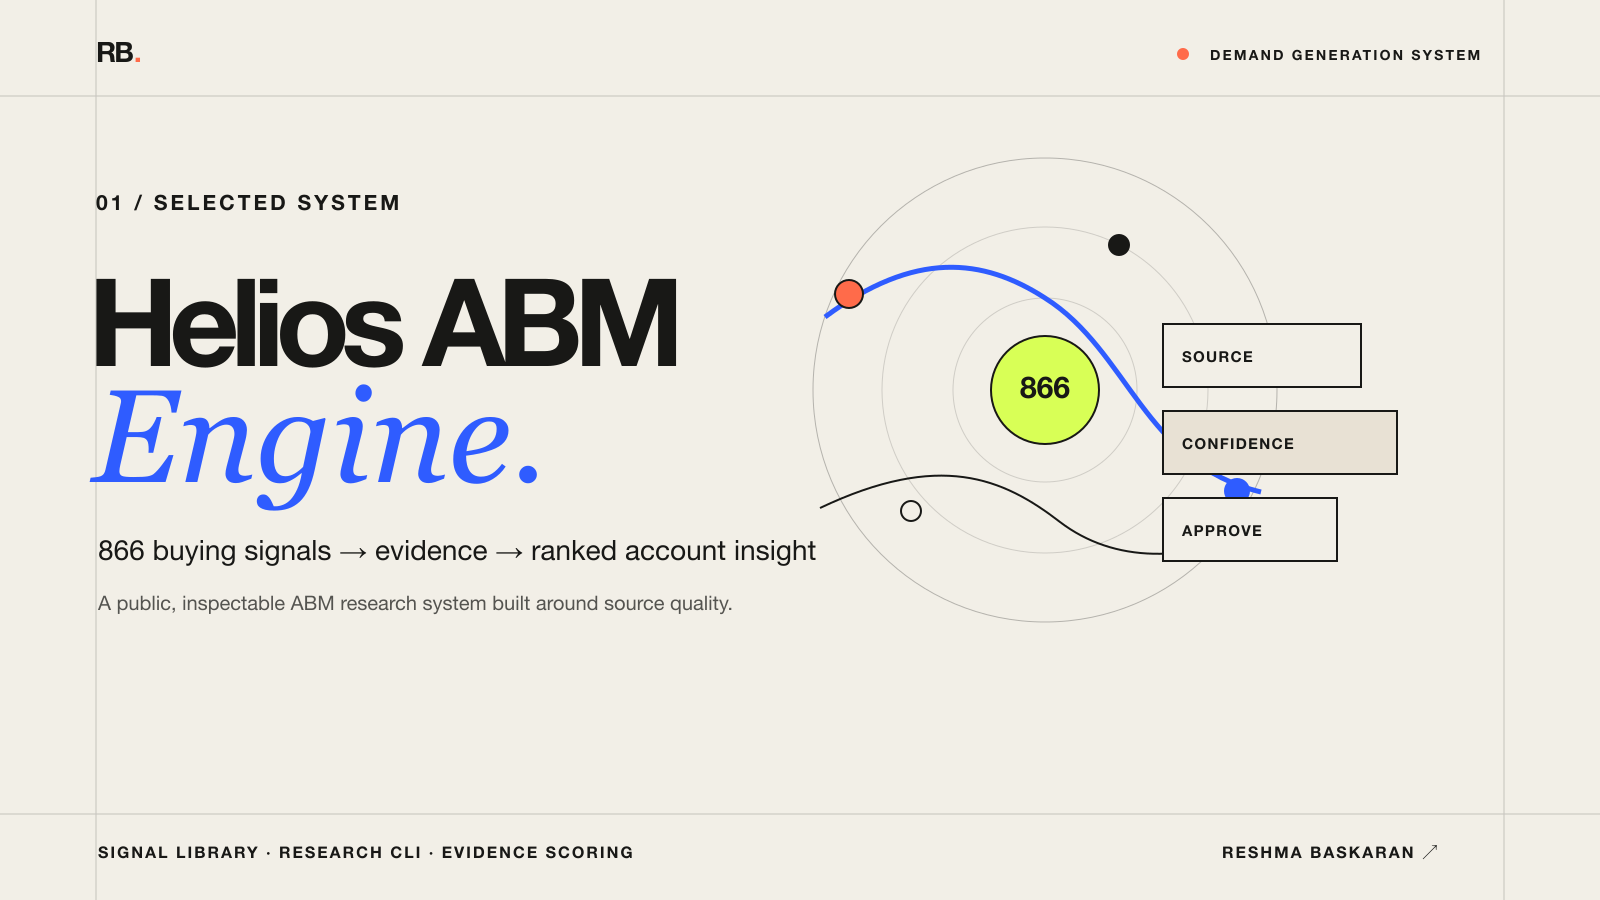
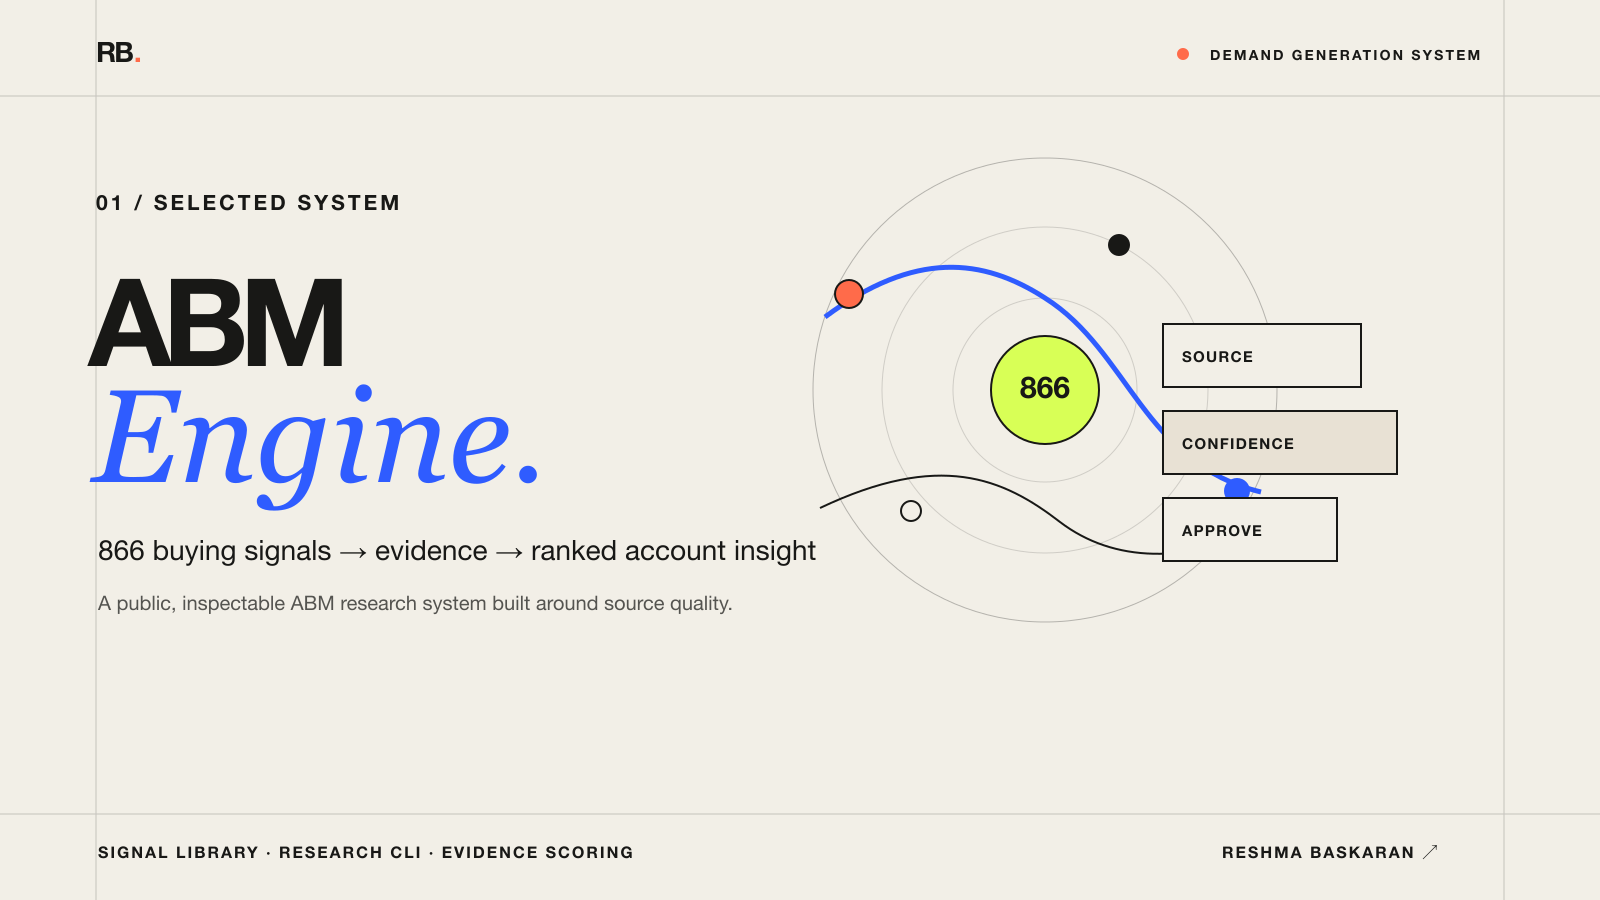
Rename public project to ABM Engine

Changed region(s): [[0.0625, 0.3111, 0.4375, 0.4044]]

diff --git a/src/abm_engine/cli.py b/src/abm_engine/cli.py
@@ -11,7 +11,7 @@ DEFAULT_LIBRARY = Path(__file__).resolve().parents[2] / "data" / "signal-library
 
 
 def build_parser() -> argparse.ArgumentParser:
-    parser = argparse.ArgumentParser(prog="helios", description="Inspect and render the Helios signal library.")
+    parser = argparse.ArgumentParser(prog="abm-engine", description="Inspect and render the ABM Engine signal library.")
     parser.add_argument("--library", type=Path, default=DEFAULT_LIBRARY)
     commands = parser.add_subparsers(dest="command", required=True)
 
@@ -65,4 +65,3 @@ def main(argv: list[str] | None = None) -> int:
 
 if __name__ == "__main__":
     raise SystemExit(main())
-

diff --git a/tests/test_library.py b/tests/test_library.py
@@ -1,7 +1,7 @@
 from pathlib import Path
 import unittest
 
-from helios.library import SignalLibrary
+from abm_engine.library import SignalLibrary
 
 
 ROOT = Path(__file__).resolve().parents[1]

diff --git a/tests/test_scoring.py b/tests/test_scoring.py
@@ -1,6 +1,6 @@
 import unittest
 
-from helios.scoring import Evidence, score_evidence
+from abm_engine.scoring import Evidence, score_evidence
 
 
 class ScoringTests(unittest.TestCase):

diff --git a/src/abm_engine/__init__.py b/src/abm_engine/__init__.py
@@ -1,6 +1,5 @@
-"""Helios ABM Engine."""
+"""ABM Engine."""
 
 from .library import Signal, SignalLibrary
 
 __all__ = ["Signal", "SignalLibrary"]
-

diff --git a/data/signal-library.md b/data/signal-library.md
@@ -1,6 +1,6 @@
-# Helios Outreach — Deterministic Signal Library
+# ABM Engine Outreach — Deterministic Signal Library
 
-**Use case:** ABM signal scoring for Helios professional services (voice agents, conversational AI, contact-center automation, agentic workflows, AI-led CX automation).
+**Use case:** ABM signal scoring for ABM Engine professional services (voice agents, conversational AI, contact-center automation, agentic workflows, AI-led CX automation).
 
 **Scope:** All signals consolidated from sub-industry research and reclassified as **deterministic** for the outreach tool. Organized by industry → sub-industry → category.
 
@@ -21,9 +21,9 @@
 
 ### Hiring
 
-- **`hiring_conversational_voice_ai_role`** — Open role for Conversational/Voice AI engineer or designer. Weight 1.95 / Conf 4. Query: `("{{company_name}}" jobs OR careers) ("conversational AI" OR "voice AI" OR "voice agent" OR "dialog systems" OR "NLU engineer") (site:linkedin.com/jobs OR site:greenhouse.io OR site:lever.co OR site:myworkdayjobs.com)`. *Rationale:* Hiring conv/voice AI talent = explicitly building same capability Helios sells.
+- **`hiring_conversational_voice_ai_role`** — Open role for Conversational/Voice AI engineer or designer. Weight 1.95 / Conf 4. Query: `("{{company_name}}" jobs OR careers) ("conversational AI" OR "voice AI" OR "voice agent" OR "dialog systems" OR "NLU engineer") (site:linkedin.com/jobs OR site:greenhouse.io OR site:lever.co OR site:myworkdayjobs.com)`. *Rationale:* Hiring conv/voice AI talent = explicitly building same capability ABM Engine sells.
 - **`hiring_contact_center_modernization`** — Open roles for contact center / BDC / CX transformation leadership. Weight 1.55 / Conf 3. Query: `"{{company_name}}" ("contact center" OR "call center" OR "customer care" OR "BDC manager" OR "customer experience transformation" OR "digital servicing") (manager OR director OR VP OR "head of") (site:linkedin.com/jobs OR site:indeed.com OR site:greenhouse.io)`. *Rationale:* New CX/contact-center leadership = budget re-baselining, voice/CCaaS-AI evaluation window.
-- **`hiring_ml_data_science_volume`** — Volume of open ML / Data Science / MLOps requisitions. Weight 1.20 / Conf 3. Query: `"{{company_name}}" ("machine learning engineer" OR "data scientist" OR "MLOps" OR "ML platform" OR "AI engineer" OR "applied scientist") (site:linkedin.com/jobs OR site:greenhouse.io)`. *Rationale:* Standing ML/DS bench means org can co-build with Helios services.
+- **`hiring_ml_data_science_volume`** — Volume of open ML / Data Science / MLOps requisitions. Weight 1.20 / Conf 3. Query: `"{{company_name}}" ("machine learning engineer" OR "data scientist" OR "MLOps" OR "ML platform" OR "AI engineer" OR "applied scientist") (site:linkedin.com/jobs OR site:greenhouse.io)`. *Rationale:* Standing ML/DS bench means org can co-build with ABM Engine services.
 - **`hiring_ecommerce_personalization_search`** — E-commerce / catalog search / personalization roles open. Weight 1.15 / Conf 3. Query: `"{{company_name}}" ("search relevance" OR "personalization" OR "product discovery" OR "catalog" OR "fitment" OR "recommendations engine") (engineer OR scientist OR manager)`. *Rationale:* Parts retail's #1 problem is fitment; AI search hiring = data layer for agentic workflows.
 - **`hiring_cdp_data_platform_roles`** — CDP, data platform, or "AI-ready data" engineering roles. Weight 1.10 / Conf 3. Query: `"{{company_name}}" ("customer data platform" OR "CDP" OR "Snowflake" OR "Databricks" OR "data platform" OR "data governance" OR "Alation" OR "Collibra") (engineer OR architect OR manager)`. *Rationale:* Governed data layer is precondition for safe agentic deployment.
 
@@ -51,7 +51,7 @@
 
 ### CX Pain
 
-- **`cx_pain_complaints_call_wait_times`** — Public complaints about call wait, customer service, or commercial desk service. Weight 1.45 / Conf 3. Query: `"{{company_name}}" ("on hold" OR "wait time" OR "no one answered" OR "horrible customer service" OR "commercial desk" OR "wrong part" OR "could not reach") (site:reddit.com OR site:trustpilot.com OR site:bbb.org OR site:consumeraffairs.com OR site:pissedconsumer.com)`. *Rationale:* This is the literal problem statement Helios solves.
+- **`cx_pain_complaints_call_wait_times`** — Public complaints about call wait, customer service, or commercial desk service. Weight 1.45 / Conf 3. Query: `"{{company_name}}" ("on hold" OR "wait time" OR "no one answered" OR "horrible customer service" OR "commercial desk" OR "wrong part" OR "could not reach") (site:reddit.com OR site:trustpilot.com OR site:bbb.org OR site:consumeraffairs.com OR site:pissedconsumer.com)`. *Rationale:* This is the literal problem statement ABM Engine solves.
 - **`cx_pain_mobile_app_reviews`** — App Store / Play Store recent low ratings on support functionality. Weight 0.90 / Conf 3.
 - **`cx_pain_reddit_subreddit_complaints`** — Volume of negative threads in retailer-specific subreddit. Weight 0.75 / Conf 2.
 - **`cx_pain_glassdoor_call_center_understaffing`** — Glassdoor reviews citing understaffed BDC/commercial/customer-care. Weight 0.85 / Conf 2. *Rationale:* Frontline staff publicly saying they can't keep up = finance is actively looking for headcount-avoidance ROI.
@@ -336,16 +336,16 @@
 
 ### Hiring
 
-- **`hiring_conversational_voice_ai_roles`** — Hiring VP of Customer Experience, Chief Customer Officer, or Head of CX. Weight 2.00 / Conf 3. Query: `site:linkedin.com/jobs OR site:greenhouse.io OR site:lever.co "{{company_name}}" ("VP Customer Experience" OR "Vice President Customer Experience" OR "Chief Customer Officer" OR "VP CX" OR "Head of Customer Experience" OR "Director of Customer Experience" OR "CCO")`. *Rationale:* The buyer persona being hired — fresh hire signals new budget and openness to CX tooling. Helios's champion is a VP/Director of CX.
-- **`hiring_ai_ml_leadership`** — Evidence of a large customer service or contact center operation (LinkedIn profiles, Glassdoor mentions, company careers page). Weight 1.80 / Conf 3. Query: `site:linkedin.com "{{company_name}}" ("customer service" OR "contact center" OR "call center" OR "customer care") OR site:glassdoor.com "{{company_name}}" ("customer service" OR "call center" OR "contact center")`. *Rationale:* Large manual CX headcount = high automation ROI. Evidence of an active CS/contact-center workforce — LinkedIn profiles in those roles or Glassdoor reviews mentioning the team — confirms the operational footprint Helios targets.
-- **`hiring_cx_automation_specialist`** — Hiring Head or Director of Contact Center Operations or Customer Service Operations. Weight 1.60 / Conf 3. Query: `site:linkedin.com/jobs OR site:greenhouse.io OR site:lever.co "{{company_name}}" ("Head of Contact Center" OR "Director of Contact Center" OR "VP Contact Center" OR "Director of Customer Service Operations" OR "VP Customer Service" OR "Director of Customer Care")`. *Rationale:* Contact center leadership hire signals CX infrastructure budget and a dedicated owner who evaluates tools like Helios.
+- **`hiring_conversational_voice_ai_roles`** — Hiring VP of Customer Experience, Chief Customer Officer, or Head of CX. Weight 2.00 / Conf 3. Query: `site:linkedin.com/jobs OR site:greenhouse.io OR site:lever.co "{{company_name}}" ("VP Customer Experience" OR "Vice President Customer Experience" OR "Chief Customer Officer" OR "VP CX" OR "Head of Customer Experience" OR "Director of Customer Experience" OR "CCO")`. *Rationale:* The buyer persona being hired — fresh hire signals new budget and openness to CX tooling. ABM Engine's champion is a VP/Director of CX.
+- **`hiring_ai_ml_leadership`** — Evidence of a large customer service or contact center operation (LinkedIn profiles, Glassdoor mentions, company careers page). Weight 1.80 / Conf 3. Query: `site:linkedin.com "{{company_name}}" ("customer service" OR "contact center" OR "call center" OR "customer care") OR site:glassdoor.com "{{company_name}}" ("customer service" OR "call center" OR "contact center")`. *Rationale:* Large manual CX headcount = high automation ROI. Evidence of an active CS/contact-center workforce — LinkedIn profiles in those roles or Glassdoor reviews mentioning the team — confirms the operational footprint ABM Engine targets.
+- **`hiring_cx_automation_specialist`** — Hiring Head or Director of Contact Center Operations or Customer Service Operations. Weight 1.60 / Conf 3. Query: `site:linkedin.com/jobs OR site:greenhouse.io OR site:lever.co "{{company_name}}" ("Head of Contact Center" OR "Director of Contact Center" OR "VP Contact Center" OR "Director of Customer Service Operations" OR "VP Customer Service" OR "Director of Customer Care")`. *Rationale:* Contact center leadership hire signals CX infrastructure budget and a dedicated owner who evaluates tools like ABM Engine.
 - **`hiring_seasonal_contact_center_surge`** — Seasonal/peak-season CX hiring surge (>50 open CX reqs). Weight 1.20 / Conf 3.
 - **`hiring_recsys_personalization_engineers`** — Recommendation systems, visual search, product discovery ML. Weight 1.20 / Conf 3.
 - **`hiring_supply_chain_forecasting_analytics`** — Demand forecasting, inventory analytics, supply chain ML. Weight 1.10 / Conf 3.
 - **`hiring_rpa_automation_developer`** — RPA developer / automation engineer / process automation roles. Weight 1.00 / Conf 3.
-- **`hiring_mlops_data_platform`** — Head of CX Technology, Customer Experience Technology Manager, or Digital Service leader exists at the company (LinkedIn profile). Weight 1.50 / Conf 3. Query: `site:linkedin.com "{{company_name}}" ("CX technology" OR "customer experience technology" OR "contact center technology" OR "digital customer service" OR "customer service technology" OR "VP Customer Experience Technology" OR "Director of CX Technology")`. *Rationale:* A dedicated CX technology owner signals active budget for contact center tooling and willingness to evaluate Helios.
+- **`hiring_mlops_data_platform`** — Head of CX Technology, Customer Experience Technology Manager, or Digital Service leader exists at the company (LinkedIn profile). Weight 1.50 / Conf 3. Query: `site:linkedin.com "{{company_name}}" ("CX technology" OR "customer experience technology" OR "contact center technology" OR "digital customer service" OR "customer service technology" OR "VP Customer Experience Technology" OR "Director of CX Technology")`. *Rationale:* A dedicated CX technology owner signals active budget for contact center tooling and willingness to evaluate ABM Engine.
 - **`hiring_ar_3d_computer_vision_specialist`** — AR/VR engineering, 3D modeling, CV for products. Weight 0.90 / Conf 3.
-- **`hiring_head_of_ecommerce_digital`** — VP or Head of E-commerce / Chief Digital Officer exists at the company (LinkedIn profile or press coverage). Weight 1.30 / Conf 3. Query: `site:linkedin.com "{{company_name}}" ("VP E-Commerce" OR "VP Ecommerce" OR "Head of E-Commerce" OR "Chief Digital Officer" OR "VP Digital" OR "Head of Digital" OR "Director of E-Commerce" OR "Director of Digital Experience")`. *Rationale:* An identifiable digital/e-commerce leader means there is a dedicated owner of the digital customer surface where Helios's AI mediation layer operates — a VP E-commerce or CDO is a secondary champion or at minimum a stakeholder in CX tooling decisions.
+- **`hiring_head_of_ecommerce_digital`** — VP or Head of E-commerce / Chief Digital Officer exists at the company (LinkedIn profile or press coverage). Weight 1.30 / Conf 3. Query: `site:linkedin.com "{{company_name}}" ("VP E-Commerce" OR "VP Ecommerce" OR "Head of E-Commerce" OR "Chief Digital Officer" OR "VP Digital" OR "Head of Digital" OR "Director of E-Commerce" OR "Director of Digital Experience")`. *Rationale:* An identifiable digital/e-commerce leader means there is a dedicated owner of the digital customer surface where ABM Engine's AI mediation layer operates — a VP E-commerce or CDO is a secondary champion or at minimum a stakeholder in CX tooling decisions.
 
 ### Funding & Financial
 
@@ -359,7 +359,7 @@
 
 ### Tech Stack
 
-- **`techstack_modern_cloud_contact_center`** — Cloud CCaaS (Five9, NICE CXone, Talkdesk, Genesys Cloud, Amazon Connect, Twilio Flex). Weight 1.50 / Conf 4. *Rationale:* Single best deterministic signal for Helios voice CX agent fit.
+- **`techstack_modern_cloud_contact_center`** — Cloud CCaaS (Five9, NICE CXone, Talkdesk, Genesys Cloud, Amazon Connect, Twilio Flex). Weight 1.50 / Conf 4. *Rationale:* Single best deterministic signal for ABM Engine voice CX agent fit.
 - **`techstack_chatbot_platform_in_use`** — Ada, Intercom Fin, Forethought, Kustomer, Cresta, ASAPP, LivePerson, Drift, Gorgias AI. Weight 1.20 / Conf 4.
 - **`techstack_zendesk_salesforce_service_cloud`** — Customer service platform: Zendesk, Salesforce Service Cloud, Kustomer, Freshdesk, Help Scout. Weight 1.00 / Conf 4.
 - **`techstack_shopify_plus`** — Uses Shopify Plus. Weight 1.10 / Conf 5.
@@ -402,7 +402,7 @@
 - **`industry_visual_search_image_shopping`** — Visual search / image-based shopping feature. Weight 0.80 / Conf 3.
 - **`industry_furniture_configurator_modular`** — Product configurator for modular/customizable furniture. Weight 0.80 / Conf 3.
 - **`industry_designer_trade_program`** — Designer/trade B2B program. Weight 0.70 / Conf 4.
-- **`industry_white_glove_scheduling_complexity`** — White-glove delivery / assembly / inside-room delivery. Weight 1.20 / Conf 4. *Rationale:* Canonical Helios voice agent use case for furniture.
+- **`industry_white_glove_scheduling_complexity`** — White-glove delivery / assembly / inside-room delivery. Weight 1.20 / Conf 4. *Rationale:* Canonical ABM Engine voice agent use case for furniture.
 - **`industry_returns_policy_complexity`** — Returns/exchange policy mentions sizing/fit/space issues. Weight 0.90 / Conf 3.
 - **`industry_showroom_to_online_transition`** — Public commentary on shifting from showroom-led to digital-led. Weight 0.80 / Conf 3.
 
@@ -832,7 +832,7 @@
 - **`open_ai_ml_engineer_roles`** — Open ML/AI engineering roles. Strength: High. Query: `site:linkedin.com/jobs "{{company_name}}" ("machine learning engineer" OR "ML engineer" OR "AI engineer")`.
 - **`open_data_scientist_roles`** — Open data scientist roles. Strength: High. Query: `site:linkedin.com/jobs "{{company_name}}" "data scientist"`.
 - **`open_mlops_platform_roles`** — MLOps / ML platform / ML infrastructure roles. Strength: High.
-- **`open_conversational_voice_ai_roles`** — Conversational AI / Voice AI / NLP engineer / speech roles. Strength: Very High. Direct match to Helios ICP.
+- **`open_conversational_voice_ai_roles`** — Conversational AI / Voice AI / NLP engineer / speech roles. Strength: Very High. Direct match to ABM Engine ICP.
 - **`open_llm_prompt_engineer_roles`** — LLM / Prompt engineer / generative AI roles. Strength: Very High.
 - **`open_data_engineering_roles`** — Data engineer / analytics engineer roles. Strength: Medium.
 - **`open_responsible_ai_roles`** — Responsible AI / AI governance / model risk roles. Strength: High.
@@ -1044,8 +1044,8 @@
 
 - **`S-STRAT-01`** — Public AI Strategy / Generative AI Mention in CEO Letter. Conf 0.8 / Weight 9.
 - **`S-STRAT-02`** — Digital Transformation Roadmap in public filings. Conf 0.65 / Weight 7.
-- **`S-STRAT-03`** — Servicing / Collections Modernization Mandate. Conf 0.75 / Weight 10. *Rationale:* Highest Helios fit.
-- **`S-STRAT-04`** — Underwriting AI as Core Strategy. Conf 0.95 / Weight 4. *Rationale:* Already built — signals maturity but NOT Helios's wedge.
+- **`S-STRAT-03`** — Servicing / Collections Modernization Mandate. Conf 0.75 / Weight 10. *Rationale:* Highest ABM Engine fit.
+- **`S-STRAT-04`** — Underwriting AI as Core Strategy. Conf 0.95 / Weight 4. *Rationale:* Already built — signals maturity but NOT ABM Engine's wedge.
 - **`S-STRAT-05`** — Member Experience / Conversational AI Product Strategy. Conf 0.85 / Weight 10.
 
 ### Product / Operational
@@ -1141,7 +1141,7 @@
 
 - **`hiring.ai_ml_role_count`** — Open AI/ML/data-science/AI engineer roles. Weight 5. Query: `site:carrier.com/careers ("machine learning" OR "ML engineer" OR "data scientist" OR "AI engineer")`. Threshold: ≥5 = strong, ≥15 = very strong.
 - **`hiring.gen_ai_specialist_role`** — Generative AI / LLM / prompt engineer / MLOps / agentic AI roles. Weight 5. *Rationale:* Differentiates production gen-AI from classical ML.
-- **`hiring.conversational_ai_role`** — Conversational AI / voice AI / chatbot / NLP engineer / dialog designer roles. Weight 5. *Rationale:* Direct fit for Helios voice AI / CX automation.
+- **`hiring.conversational_ai_role`** — Conversational AI / voice AI / chatbot / NLP engineer / dialog designer roles. Weight 5. *Rationale:* Direct fit for ABM Engine voice AI / CX automation.
 - **`hiring.chief_ai_officer_or_equivalent`** — Chief AI Officer / Chief Data & Analytics Officer / Head of AI. Weight 5. *Rationale:* CAIO hire is a 12-month leading buy signal.
 - **`hiring.contact_center_modernization_role`** — Contact center / CX transformation director/VP/head of insurance. Weight 4.
 - **`hiring.platform_engineer_ccaas`** — Genesys / NICE CXone / Five9 / Talkdesk / Amazon Connect engineer. Weight 4.

diff --git a/README.md b/README.md
@@ -1,14 +1,14 @@
-# Helios ABM Engine: Your Replacement for Clay
+# ABM Engine: Your Replacement for Clay
 
-![Helios ABM Engine cover](assets/cover.svg)
+![ABM Engine cover](assets/cover.svg)
 
-Helios is an evidence-first account research and messaging engine. It turns a campaign brief into scoped research questions, source-backed buying signals, a reviewable account score, and grounded message inputs.
+ABM Engine is an evidence-first account research and messaging engine. It turns a campaign brief into scoped research questions, source-backed buying signals, a reviewable account score, and grounded message inputs.
 
 ## The problem
 
 Most enrichment workflows produce rows of data. ABM teams still have to decide which facts matter, whether a source supports the claim, what the timing signal means, and how it should change the message.
 
-Helios encodes that judgment in an inspectable workflow:
+ABM Engine encodes that judgment in an inspectable workflow:
 
 1. Select relevant signals for the account and campaign.
 2. Render targeted research queries.
@@ -34,9 +34,9 @@ python -m venv .venv
 source .venv/bin/activate
 python -m pip install -e .
 
-helios stats
-helios search "AI initiative" --limit 5
-helios render ai_initiative_press_release --company-name "Lowe's" --company-domain lowes.com --ticker LOW
+abm-engine stats
+abm-engine search "AI initiative" --limit 5
+abm-engine render ai_initiative_press_release --company-name "Lowe's" --company-domain lowes.com --ticker LOW
 ```
 
 Run the tests:
@@ -47,7 +47,7 @@ python -m unittest discover -s tests -v
 
 ## How this differs from Clay
 
-Clay is a general enrichment and workflow canvas. Helios is an opinionated ABM research system: the signal taxonomy, evidence record, confidence treatment, human approval boundary, and message-grounding workflow are built into the model. The goal is not to reproduce every Clay integration; it is to make account-level research logic visible and auditable.
+Clay is a general enrichment and workflow canvas. ABM Engine is an opinionated ABM research system: the signal taxonomy, evidence record, confidence treatment, human approval boundary, and message-grounding workflow are built into the model. The goal is not to reproduce every Clay integration; it is to make account-level research logic visible and auditable.
 
 ## Real account cases
 
